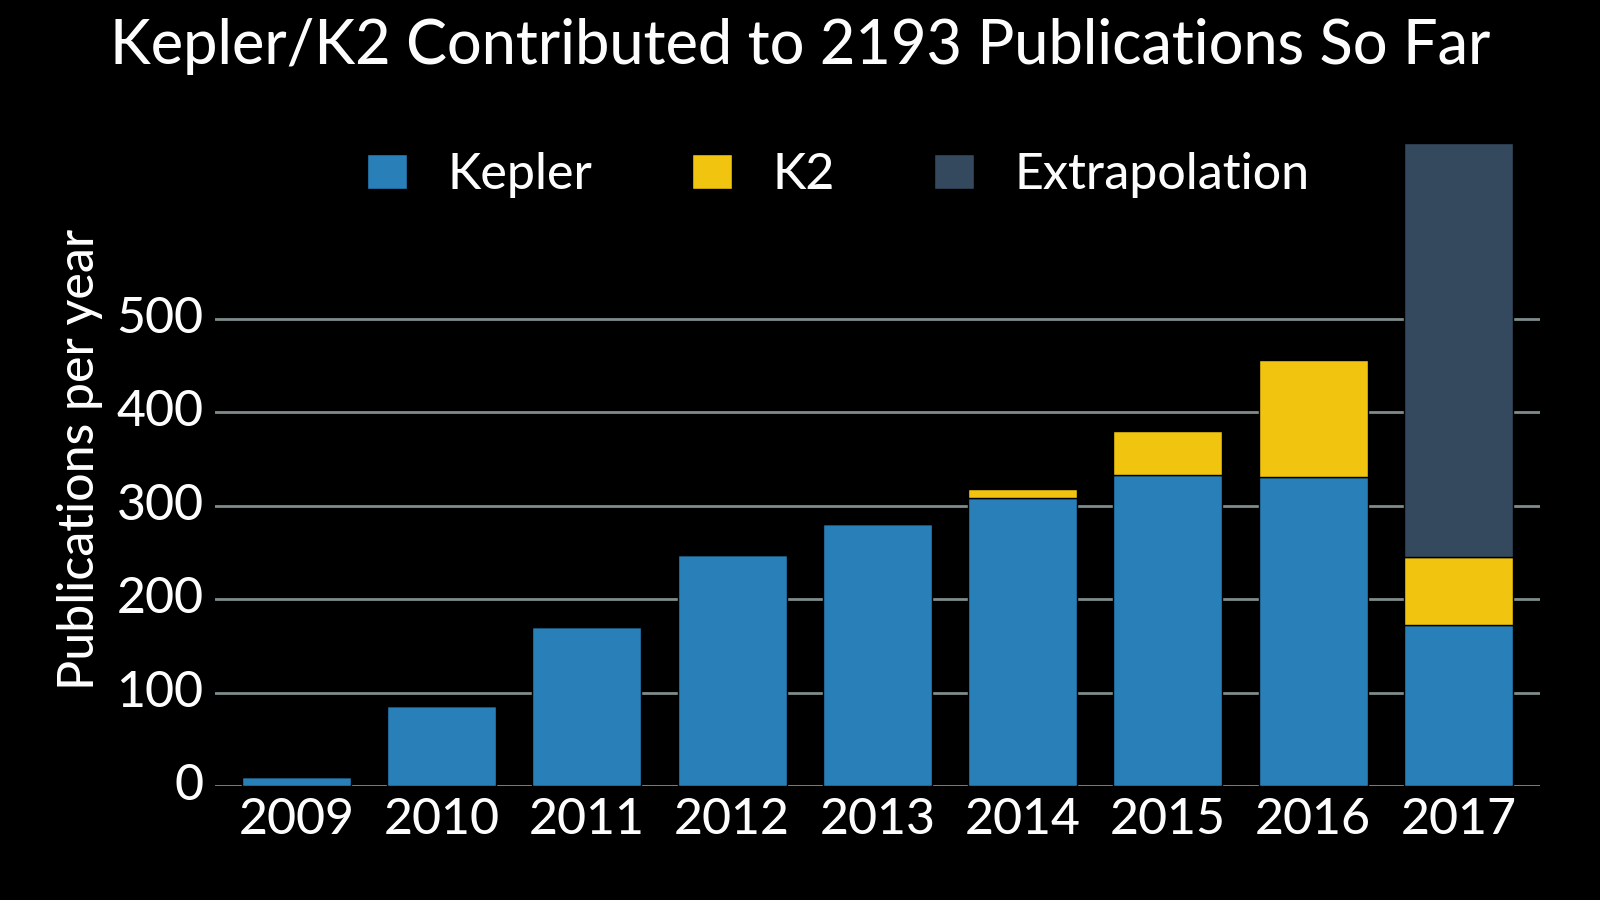
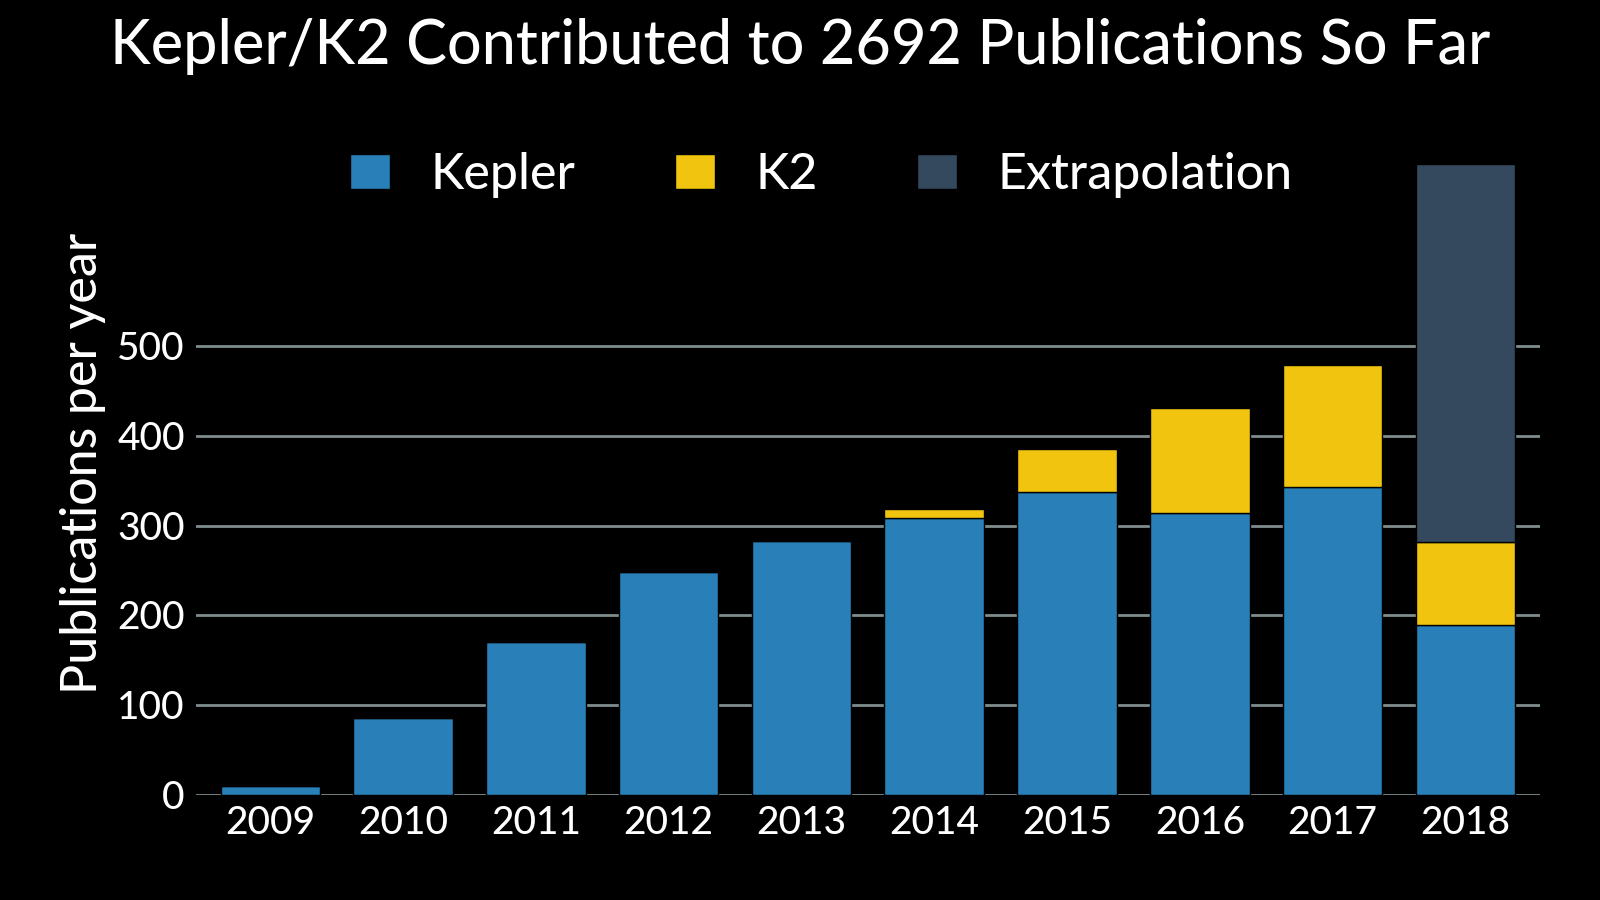
Update publications per year plot

diff --git a/publication-stats/publications-per-year.py b/publication-stats/publications-per-year.py
@@ -49,13 +49,13 @@ for mission in MISSIONS:
 # Now make the actual plot
 fig = plt.figure(figsize=(8, 4.5))
 ax = fig.add_subplot(111)
-plt.bar(np.array(list(counts['kepler'].keys())) - 0.5*barwidth,
+plt.bar(np.array(list(counts['kepler'].keys())),
         counts['kepler'].values(),
         label='Kepler',
         facecolor=palette[1],
         edgecolor='black',
         width=barwidth)
-plt.bar(np.array(list(counts['k2'].keys())) - 0.5*barwidth,
+plt.bar(np.array(list(counts['k2'].keys())),
         counts['k2'].values(),
         bottom=counts['kepler'].values(),
         label='K2',
@@ -68,8 +68,8 @@ if extrapolate:
     fraction_of_year_passed = float(now.strftime("%-j")) / 365.2425
     current_total = (counts['kepler'][current_year] +
                      counts['k2'][current_year])
-    expected = (1/fraction_of_year_passed - 1) * current_total
-    plt.bar(current_year - 0.5*barwidth,
+    expected = (1/fraction_of_year_passed - 1.5) * current_total
+    plt.bar(current_year,
             expected,
             bottom=current_total,
             label='Extrapolation',
@@ -80,8 +80,8 @@ if extrapolate:
 # Aesthetics
 plt.ylabel("Publications per year", fontsize=18)
 ax.get_xaxis().get_major_formatter().set_useOffset(False)
-plt.xticks(range(first_year - 1, current_year + 1), fontsize=18)
-plt.yticks(range(0, 501, 100), fontsize=18)
+plt.xticks(range(first_year - 1, current_year + 1), fontsize=14)
+plt.yticks(range(0, 501, 100), fontsize=14)
 plt.xlim([first_year - 0.75*barwidth, current_year + 0.75*barwidth])
 plt.legend(bbox_to_anchor=(0.1, 1),
            loc='upper left',
